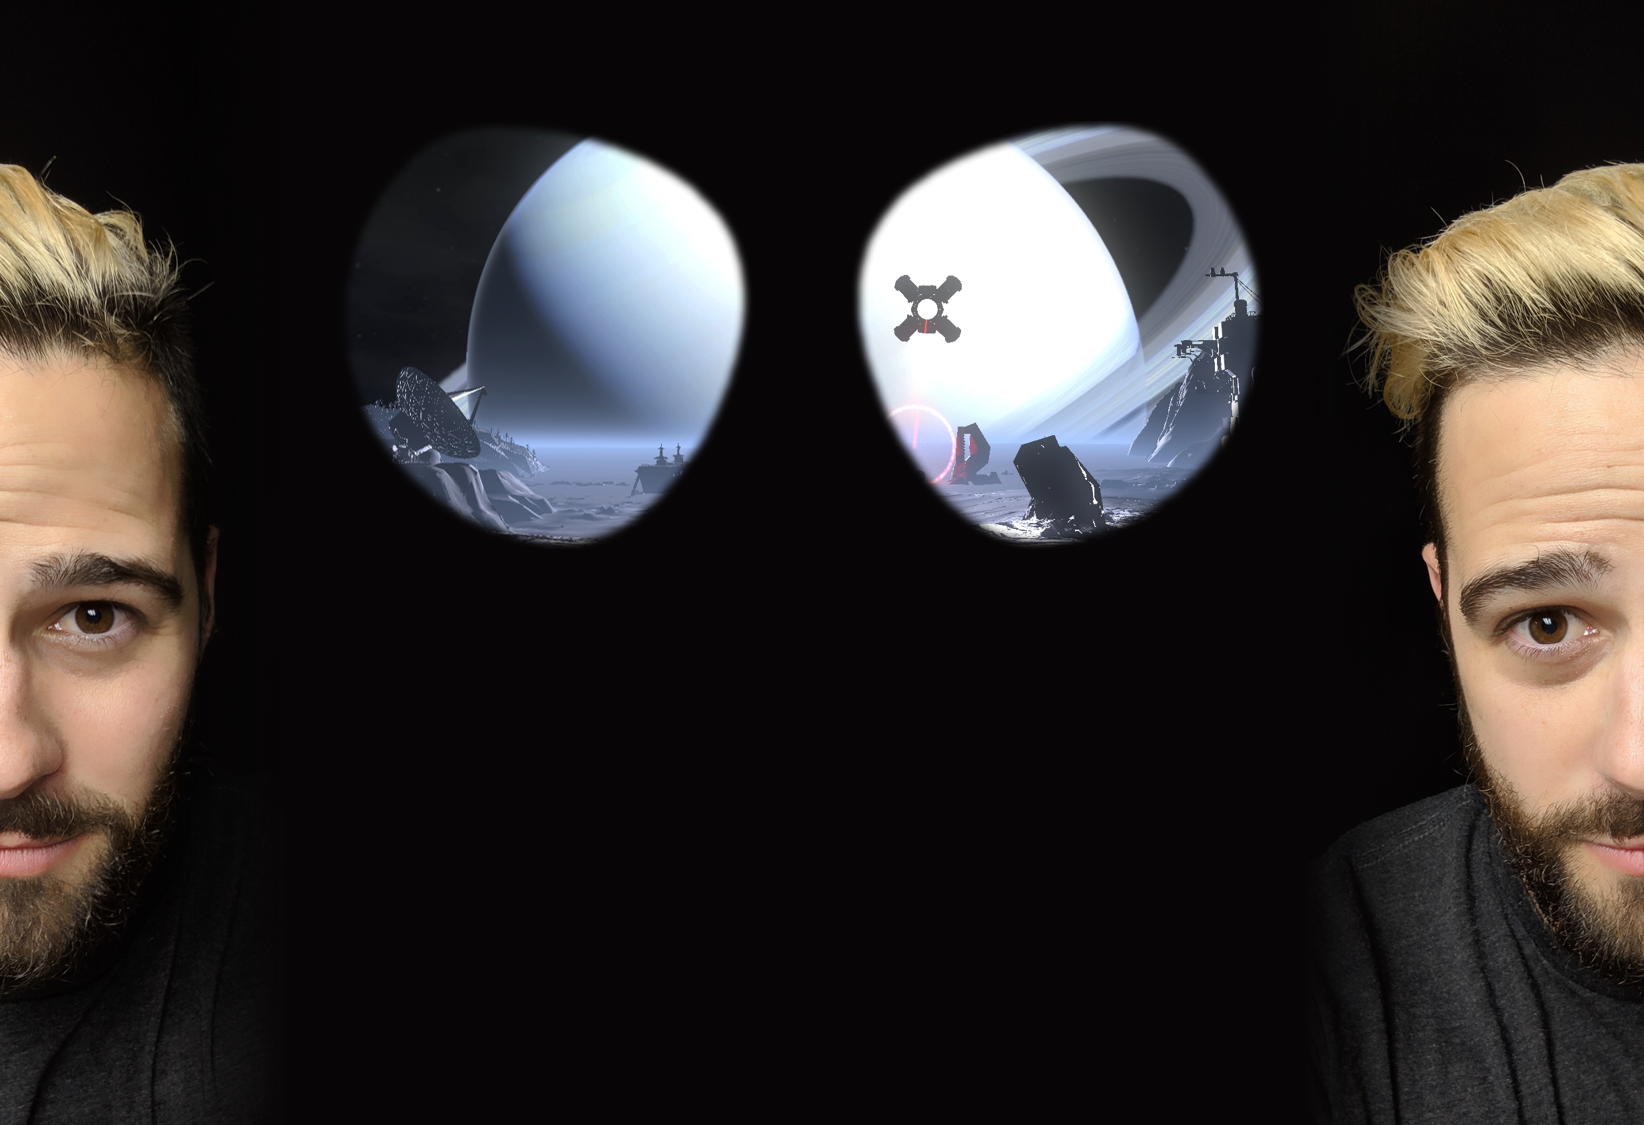
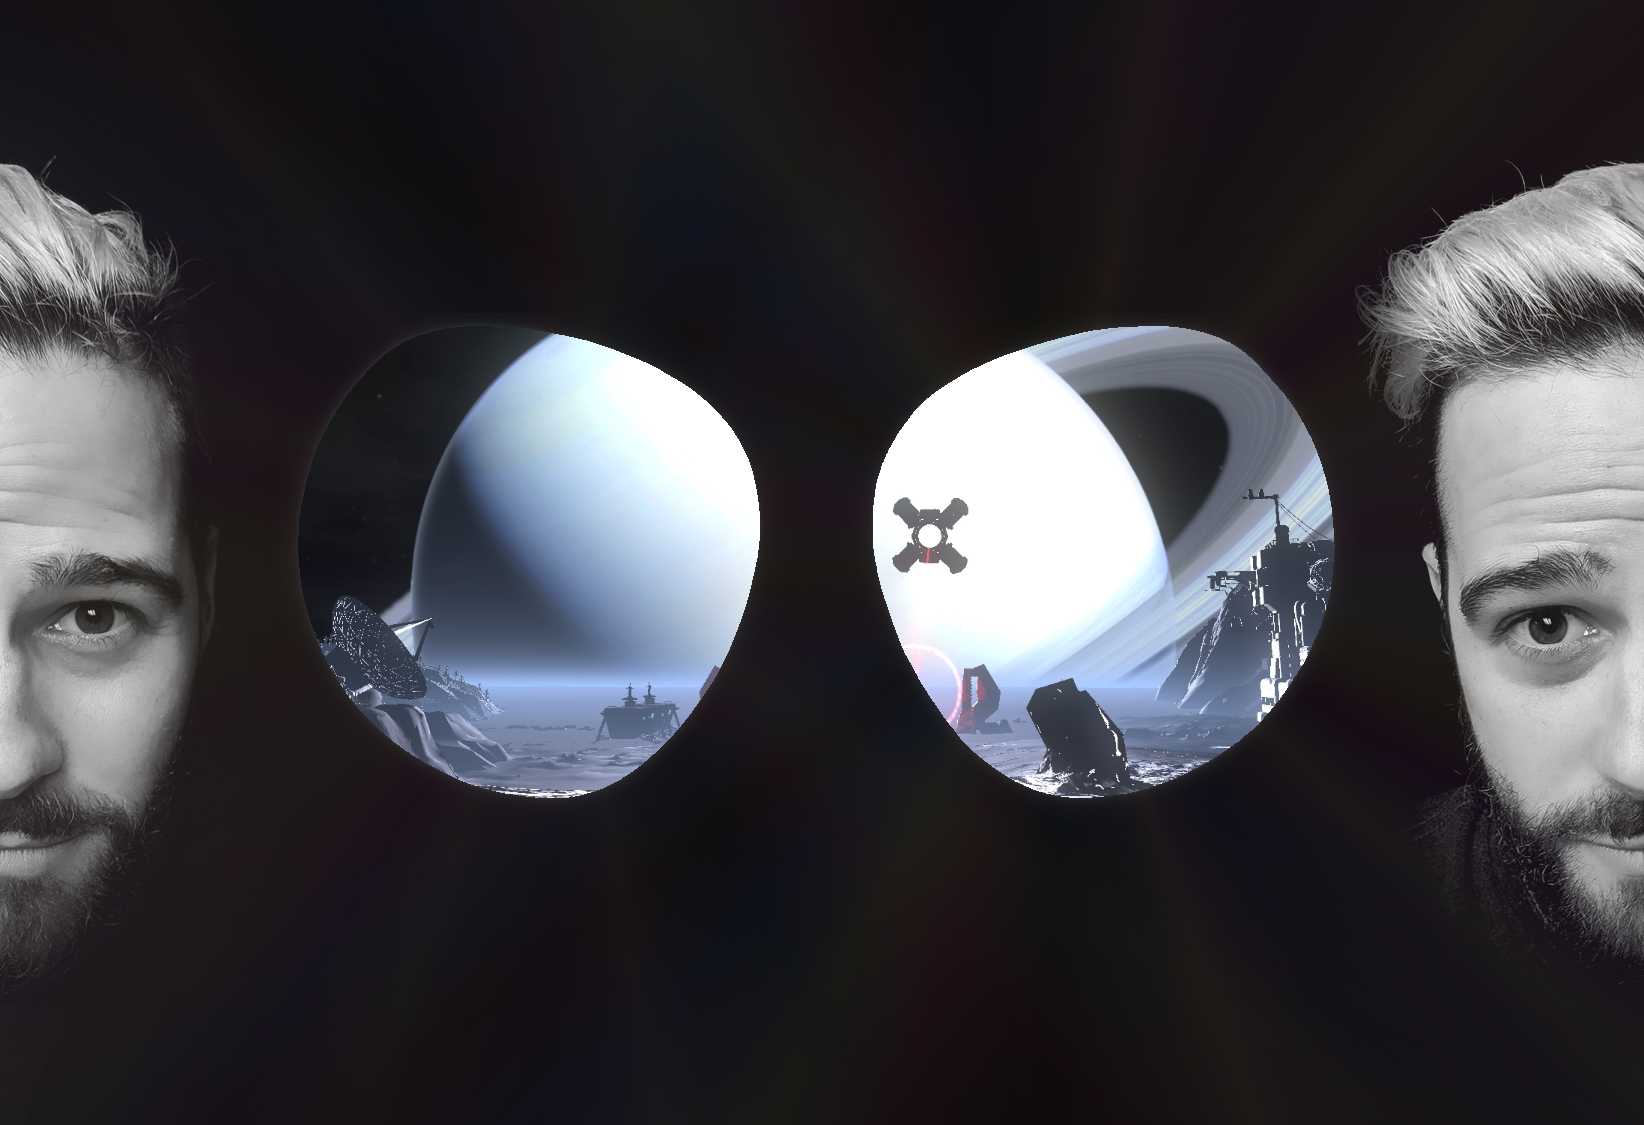
trying new jekyll template

diff --git a/_includes/css/agency.css b/_includes/css/agency.css
@@ -269,7 +269,7 @@ header {
     text-align: center;
     color: #fff;
     background-attachment: scroll;
-    background-image: url('{{ site.baseurl }}/img/header-bg4.png');
+    background-image: url('{{ site.baseurl }}/img/header-bg8.png');
     background-position: center center;
     background-repeat: none;
     -webkit-background-size: cover;
